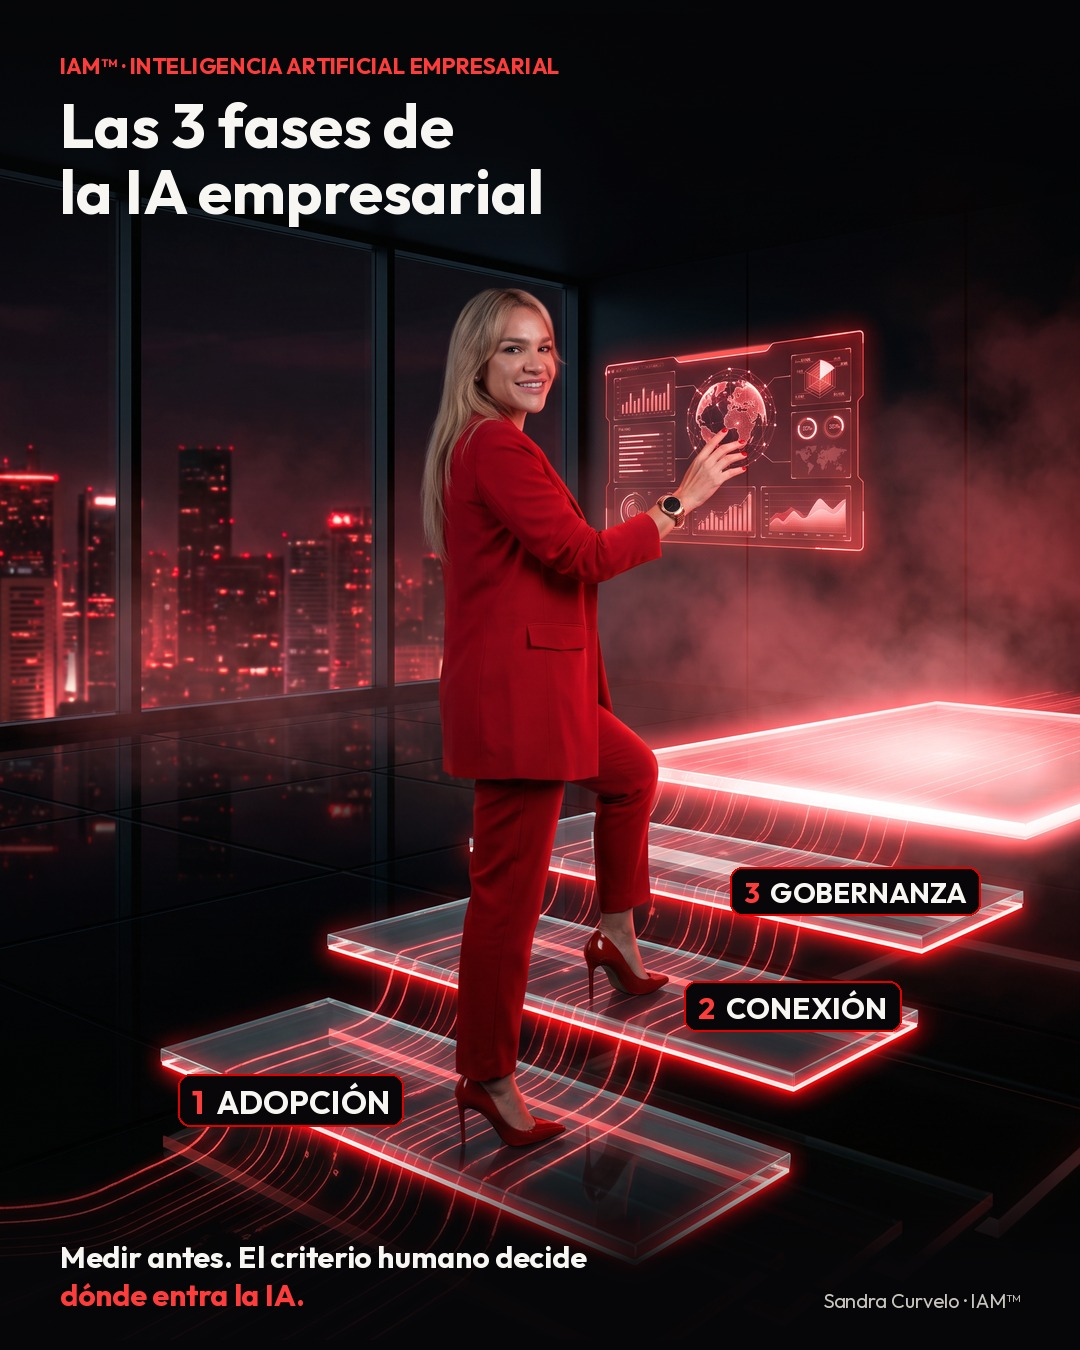
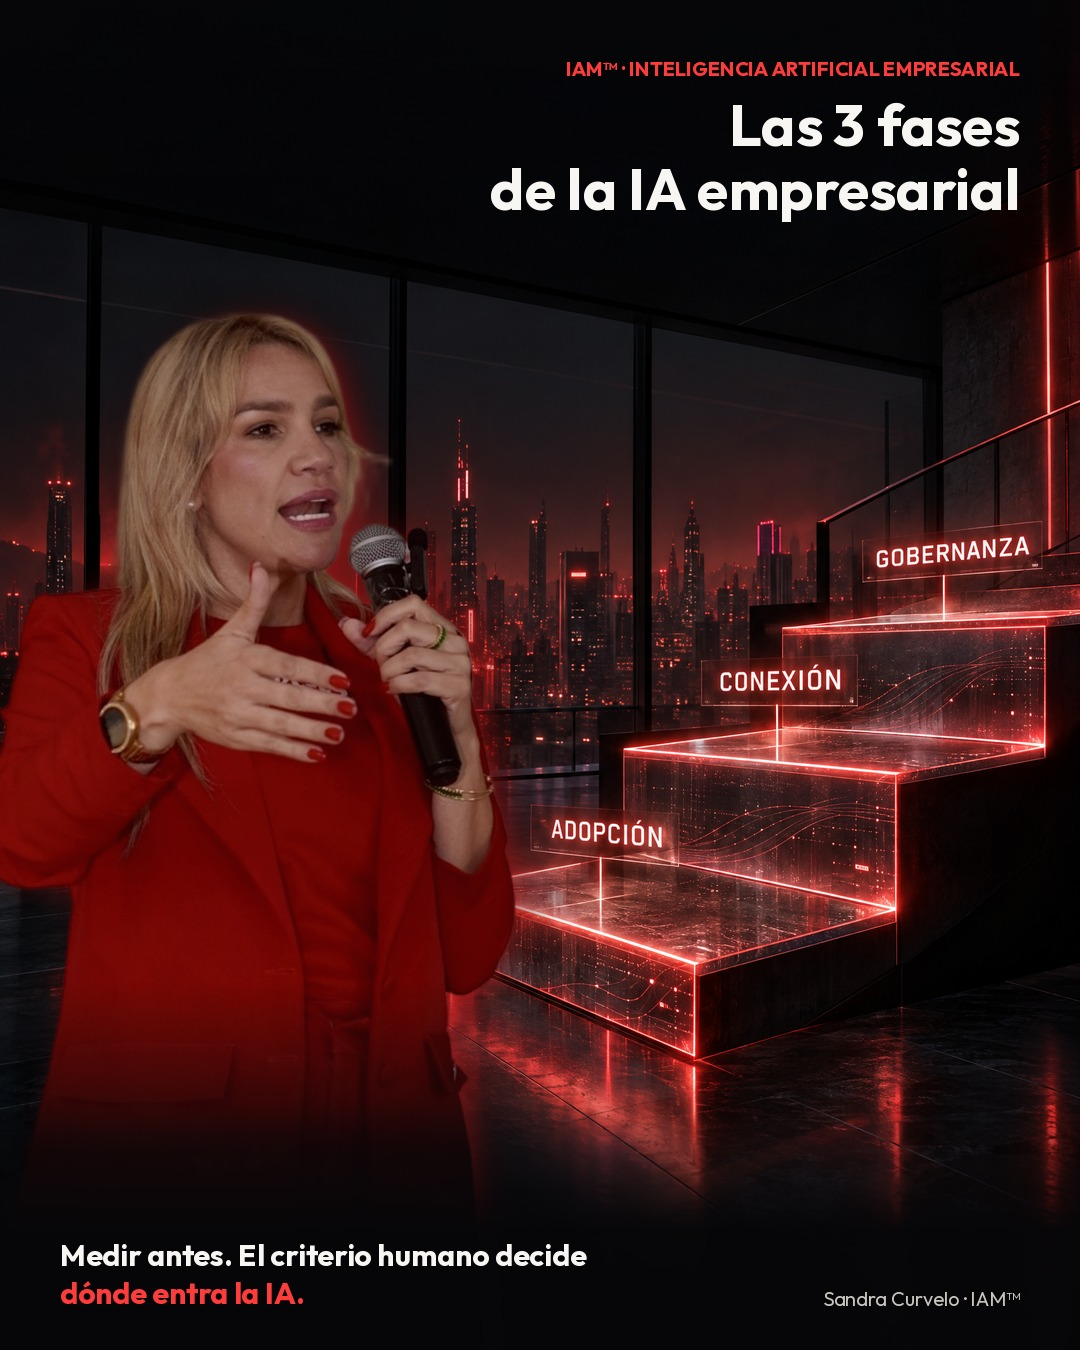
Imagen lun-23-am v5: foto real recortada sobre escalera con fases holográficas
Claude-Session: https://claude.ai/code/session_01Tmne2aLNP1UGqMwJXFqoP3

diff --git a/contenido-linkedin/imagenes/escalera-lun-23.py b/contenido-linkedin/imagenes/escalera-lun-23.py
@@ -1,33 +1,43 @@
 import sys
-from PIL import Image, ImageDraw, ImageFont, ImageChops
+from PIL import Image, ImageDraw, ImageFont, ImageFilter, ImageEnhance, ImageChops
 D=sys.argv[1]; F="/mnt/skills/examples/canvas-design/canvas-fonts/"
 B=lambda s: ImageFont.truetype(F+"Outfit-Bold.ttf",s); R=lambda s: ImageFont.truetype(F+"Outfit-Regular.ttf",s)
 W,H=1080,1350
-src=Image.open(D+"/r3.png").convert("RGB")
-k=W/src.width; p=src.resize((W,int(src.height*k)),Image.LANCZOS)
-c=Image.new("RGB",(W,H),(6,6,8)); c.paste(p,(0,0))
+bg=Image.open(D+"/bg2.png").convert("RGB").resize((W,H),Image.LANCZOS).convert("RGBA")
+cut=Image.open(D+"/cut.png").convert("RGBA")
+s=1.1; cut=cut.resize((int(cut.width*s),int(cut.height*s)),Image.LANCZOS)
+ox,oy=-300,-20
+# grade subject to scene: slightly darker, warmer-red
+rgb=cut.convert("RGB"); a=cut.split()[-1]
+rgb=ImageEnhance.Brightness(rgb).enhance(0.84); rgb=ImageEnhance.Contrast(rgb).enhance(1.05)
+tint=Image.new("RGB",rgb.size,(255,40,40)); rgb=Image.blend(rgb,tint,0.06)
+dk=Image.new("L",rgb.size,0); dd=ImageDraw.Draw(dk)
+for yy in range(rgb.height):
+    fy=yy+oy
+    v=0 if fy<980 else min(215,int(215*(fy-980)/170))
+    dd.line([(0,yy),(rgb.width,yy)],fill=v)
+rgb=Image.composite(Image.new("RGB",rgb.size,(10,6,8)),rgb,dk)
+cut=rgb.convert("RGBA"); cut.putalpha(a)
+# red rim glow behind subject
+glow=Image.new("RGBA",(W,H),(0,0,0,0)); g=Image.new("RGBA",cut.size,(230,20,20,0)); g.putalpha(a.point(lambda v: int(v*0.85)))
+glow.paste(g,(ox+14,oy),g); glow=glow.filter(ImageFilter.GaussianBlur(22))
+bg=Image.alpha_composite(bg,glow)
+# soft floor shadow
+bg.alpha_composite(cut,(ox,oy))
+c=bg
 my=Image.new("L",(W,H),0); dy=ImageDraw.Draw(my)
 for y in range(H):
     v=0
-    if y<300: v=int(200*(1-y/300))
-    if y>1150: v=min(240,int(240*(y-1150)/110))
+    if y<280: v=int(170*(1-y/280))
+    if y>1100: v=min(250,int(250*(y-1100)/130))
     dy.line([(0,y),(W,y)],fill=v)
-ov=Image.new("RGBA",(W,H),(6,6,8,255)); ov.putalpha(my)
-c=Image.alpha_composite(c.convert("RGBA"),ov)
-d=ImageDraw.Draw(c,"RGBA")
+ov=Image.new("RGBA",(W,H),(6,6,8,255)); ov.putalpha(my); c=Image.alpha_composite(c,ov)
+d=ImageDraw.Draw(c)
 WH=(248,246,242); RED=(255,60,60)
-d.text((60,52),"IAM™ · INTELIGENCIA ARTIFICIAL EMPRESARIAL",font=B(22),fill=RED)
-d.text((60,86),"Las 3 fases de",font=B(62),fill=WH)
-d.text((60,152),"la IA empresarial",font=B(62),fill=WH)
-def pill(x,y,n,t,s):
-    f=B(s); w=d.textlength(f"{n}  {t}",font=f)
-    d.rounded_rectangle((x-14,y-8,x+w+14,y+s+12),radius=12,fill=(8,6,8,205),outline=(224,0,0,255),width=2)
-    d.text((x,y),n,font=f,fill=RED); d.text((x+d.textlength(n+"  ",font=f),y),t,font=f,fill=WH)
-k2=W/928
-pill(int(165*k2),int(930*k2),"1","ADOPCIÓN",32)
-pill(int(600*k2),int(850*k2),"2","CONEXIÓN",30)
-pill(int(640*k2),int(752*k2),"3","GOBERNANZA",28)
-d.text((60,1238),"Medir antes. El criterio humano decide",font=B(30),fill=WH)
-d.text((60,1276),"dónde entra la IA.",font=B(30),fill=RED)
-t="Sandra Curvelo · IAM™"; d.text((W-60-d.textlength(t,font=R(20)),1288),t,font=R(20),fill=(200,196,190))
-c.convert("RGB").save(D+"/lun-23-am-v4.jpg",quality=92)
+d.text((W-60-d.textlength("IAM™ · INTELIGENCIA ARTIFICIAL EMPRESARIAL",font=B(20)),56),"IAM™ · INTELIGENCIA ARTIFICIAL EMPRESARIAL",font=B(20),fill=RED)
+for i,t in enumerate(["Las 3 fases","de la IA empresarial"]):
+    w=d.textlength(t,font=B(58)); d.text((W-60-w,88+i*64),t,font=B(58),fill=WH)
+d.text((60,1236),"Medir antes. El criterio humano decide",font=B(30),fill=WH)
+d.text((60,1274),"dónde entra la IA.",font=B(30),fill=RED)
+t="Sandra Curvelo · IAM™"; d.text((W-60-d.textlength(t,font=R(20)),1286),t,font=R(20),fill=(200,196,190))
+c.convert("RGB").save(D+"/lun-23-am-v5.jpg",quality=92)
